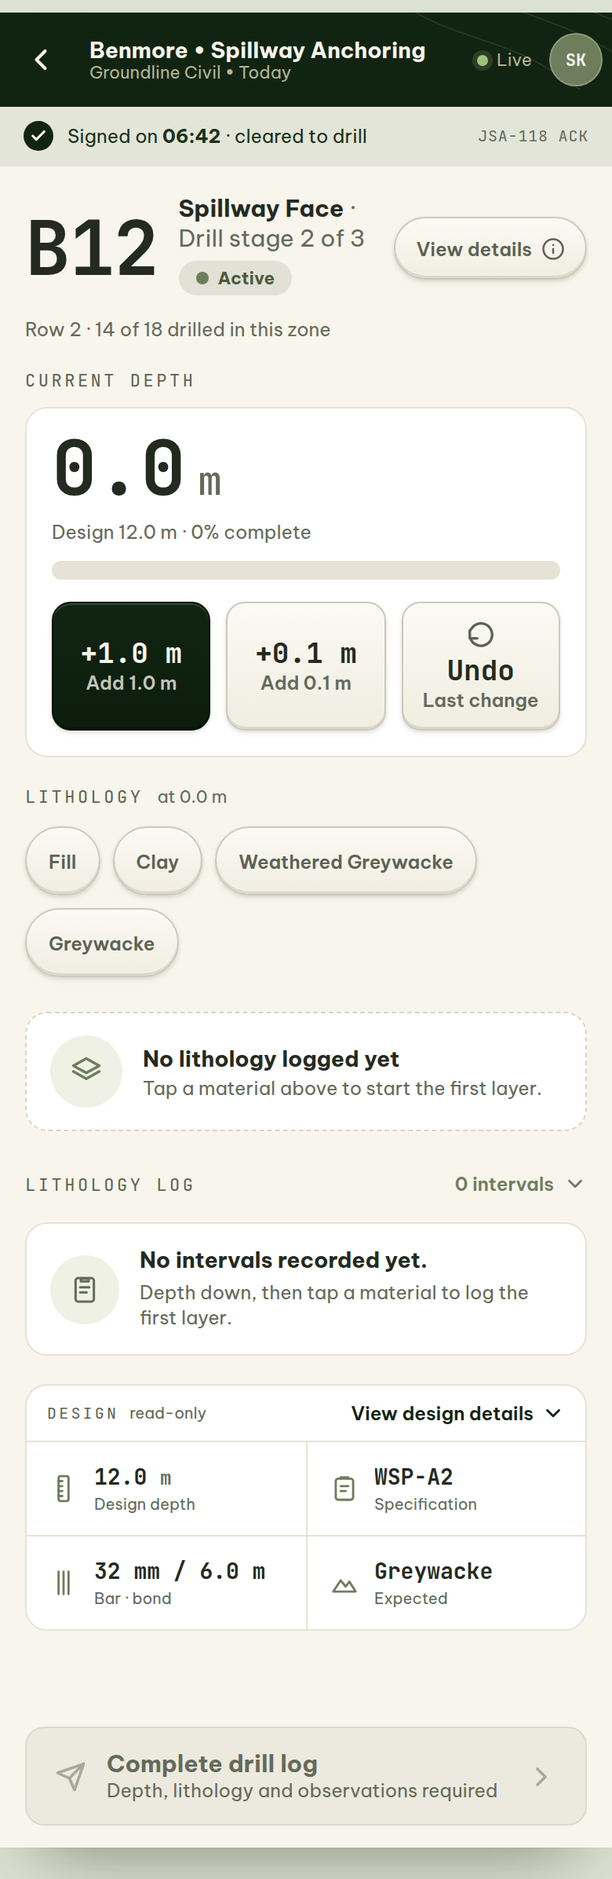
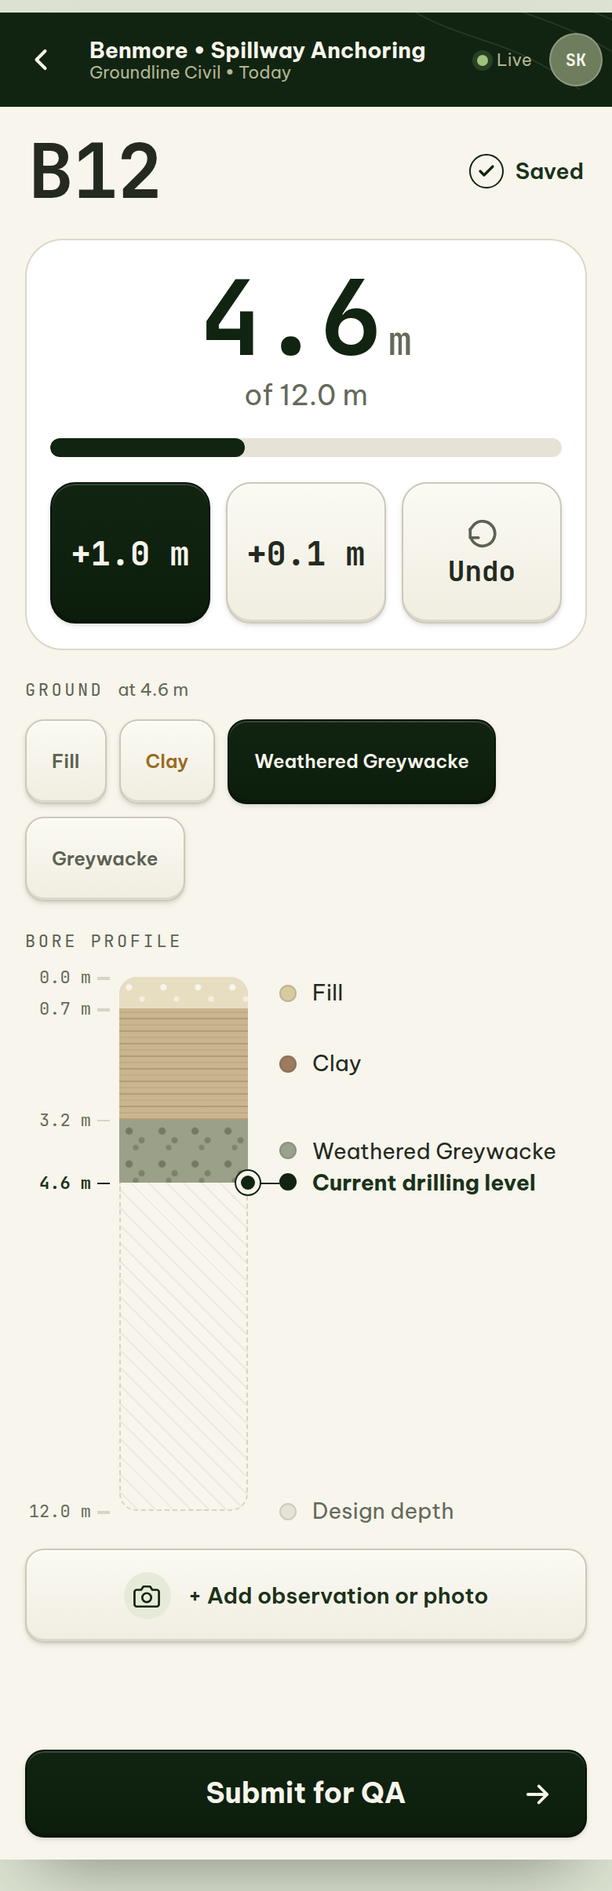
Drill Log: refined field UI to match the reference mockup
Rebuild the operator Drill Log around the approved reference: keep the field
topbar, drop the JSA sign-on strip, unify depth into one hero card, use
rounded lithology chips, and replace the lithology-log list + read-only
design panel with a live graphical Bore Profile. Behaviour, data and
terminology unchanged.

- Minimal identity row (B12 · Saved); JSA sign-on strip removed.
- Depth hero: large value + "of 12.0 m" + progress + the +1.0 / +0.1 / Undo
  pillow controls, all in one card.
- Rounded-rect "Ground at X m" chips; Clay keeps its semantic ochre label;
  selected material is a deep-green fill.
- New live Bore Profile: stratigraphic column (textured layer bands +
  dashed undrilled remainder), depth axis, current-level marker with
  connector, and a legend — all rebuilt from the logged layers, current
  depth and design depth on every change.
- Surfaced "+ Add observation or photo" (opens the record sheet) and a
  single-line "Submit for QA" dock.
- B12 loads mid-drill at 4.6 m with Fill / Clay / Weathered Greywacke
  pre-logged. No behavioural/route/terminology changes; no JS errors.

Claude-Session: https://claude.ai/code/session_01UW4VkpYFpa8gkJ1CXsUgwQ

diff --git a/prototype/screens/drill-log.html b/prototype/screens/drill-log.html
@@ -353,6 +353,86 @@ body{font-family:var(--ui);color:var(--ink);background:var(--stage);min-height:1
 .spec .sg .c .k{color:var(--ink-40)}
 .spec .sg[hidden]{display:none}
 .curlith[hidden]{display:none}
+
+/* ====================================================================
+   PDS-DRL refined build v2 — matches the field reference mockup:
+   minimal identity row, unified depth hero, rounded lithology chips,
+   a live graphical Bore Profile, surfaced observation + submit.
+   ==================================================================== */
+/* identity row */
+.idrow2{display:flex;align-items:center;justify-content:space-between;gap:12px;padding:2px 2px 4px}
+.idrow2 .bigid{font-family:var(--mono);font-weight:700;font-size:var(--fs-4xl);line-height:.9;color:var(--ink);letter-spacing:-.01em}
+.saved{display:inline-flex;align-items:center;gap:7px;font-size:var(--fs-base);font-weight:600;color:var(--forest-2)}
+.saved .sc{width:22px;height:22px;border-radius:50%;border:1.7px solid var(--forest);color:var(--forest);display:grid;place-items:center}
+
+/* unified depth hero card */
+.dcard{border:1px solid var(--structural-border);background:var(--card);border-radius:var(--r-2xl);padding:22px 15px 16px;text-align:center}
+.dcard .dh-val{display:flex;justify-content:center;align-items:baseline;gap:5px}
+.dcard .dh-val .n{font-family:var(--mono);font-weight:700;font-size:66px;line-height:.86;color:var(--forest);letter-spacing:-.02em}
+.dcard .dh-val .u{font-family:var(--mono);font-size:var(--fs-xl);color:var(--ink-40);font-weight:500}
+.dcard .d-of{font-size:var(--fs-lg);color:var(--ink-40);margin-top:6px}
+.dcard .pbar{height:12px;margin-top:16px;background:var(--line);border-radius:var(--r-pill);overflow:hidden}
+.dcard .pbar .pf{height:100%;background:var(--forest);border-radius:var(--r-pill)}
+.dcard .qadj{margin-top:16px}
+.dcard .qadj .qc{min-height:90px;border-radius:16px}
+.dcard .qadj .qc .cap{display:none}
+.dcard .qadj .qc{padding:10px 4px}
+.dcard .qadj .qc .big{font-size:21px;white-space:nowrap}
+.dcard .qadj .qc.undo .big{font-size:var(--fs-lg)}
+.dcard .qadj .qc.undo .ico{color:var(--ink-60)}
+
+/* rounded lithology chips (GROUND AT …) */
+.lqchips{align-items:stretch}
+.lqchips .lq{border-radius:var(--r-control);padding:12px 16px;min-height:54px;justify-content:center;text-align:center;line-height:1.15}
+.lqchips .lq[data-tone=ochre]{color:#9a6a1e}
+
+/* ---- Bore Profile (live) ------------------------------------------- */
+.bore{display:grid;grid-template-columns:54px 94px 1fr;position:relative;padding:6px 0 2px}
+.bore-axis,.bore-col,.bore-legend{height:340px}
+.bore-axis{position:relative}
+.bore-tick{position:absolute;right:12px;transform:translateY(-50%);font-family:var(--mono);font-size:var(--fs-xs);color:var(--ink-40);white-space:nowrap}
+.bore-tick.cur{color:var(--forest-2);font-weight:700}
+.bore-tick::after{content:"";position:absolute;right:-12px;top:50%;width:8px;height:1.5px;background:var(--line-2)}
+.bore-tick.cur::after{background:var(--forest)}
+.bore-col{position:relative}
+.bore-solid{position:absolute;left:6px;right:6px;top:0;border-radius:11px 11px 0 0;overflow:hidden;box-shadow:inset 0 0 0 1px rgba(27,33,23,.1)}
+.bore-band{position:absolute;left:0;right:0}
+.bore-band[data-mat=fill]{background:#e7ddc1;background-image:radial-gradient(circle at 28% 30%,rgba(255,255,255,.7) 0 1.6px,transparent 2.4px),radial-gradient(circle at 66% 64%,rgba(255,255,255,.5) 0 1.4px,transparent 2.2px);background-size:22px 22px}
+.bore-band[data-mat=clay]{background:#c9b58f;background-image:repeating-linear-gradient(0deg,rgba(120,92,60,.2) 0 1px,transparent 1px 8px),repeating-linear-gradient(0deg,rgba(120,92,60,.1) 0 1px,transparent 1px 4px)}
+.bore-band[data-mat=weathered-greywacke]{background:#9ba189;background-image:radial-gradient(circle at 30% 34%,rgba(58,68,48,.42) 0 1.9px,transparent 2.7px),radial-gradient(circle at 68% 62%,rgba(58,68,48,.34) 0 1.6px,transparent 2.4px),radial-gradient(circle at 50% 84%,rgba(58,68,48,.3) 0 1.4px,transparent 2.2px);background-size:21px 21px}
+.bore-band[data-mat=greywacke]{background:#828a78;background-image:radial-gradient(circle at 32% 32%,rgba(45,54,38,.4) 0 1.8px,transparent 2.6px),radial-gradient(circle at 70% 64%,rgba(45,54,38,.32) 0 1.6px,transparent 2.4px);background-size:20px 20px}
+.bore-band[data-mat=sandstone]{background:#cabd97}
+.bore-band[data-mat=argillite]{background:#5d6058}
+.bore-band[data-mat=siltstone]{background:#989a8d}
+.bore-band[data-mat=colluvium]{background:#8a7860}
+.bore-band[data-mat=fault-gouge]{background:#9a8a73}
+.bore-band[data-mat=other]{background:#cbd2c9}
+.bore-undrilled{position:absolute;left:6px;right:6px;border:1.5px dashed var(--line-2);border-top:none;border-radius:0 0 11px 11px;background:repeating-linear-gradient(45deg,transparent 0 7px,rgba(27,33,23,.05) 7px 8px)}
+.bore-marker{position:absolute;right:6px;width:15px;height:15px;border-radius:50%;background:var(--forest);border:3px solid var(--cream);box-shadow:0 0 0 1px var(--forest);transform:translate(50%,-50%);z-index:4}
+.bore-conn{position:absolute;height:1.5px;background:var(--forest);z-index:2}
+.bore-legend{position:relative;padding-left:14px}
+.bore-leg{position:absolute;left:14px;right:0;transform:translateY(-50%);display:flex;align-items:center;gap:10px;font-size:var(--fs-base);color:var(--ink);white-space:nowrap}
+.bore-leg .ld{width:11px;height:11px;border-radius:50%;flex-shrink:0;box-shadow:inset 0 0 0 1px rgba(27,33,23,.12)}
+.bore-leg.cur{color:var(--forest-2);font-weight:700}
+.bore-leg.des{color:var(--ink-40)}
+.bore-leg.des .ld{background:var(--line)}
+
+/* surfaced observation / photo action */
+.addobs{width:100%;display:flex;align-items:center;justify-content:center;gap:11px;padding:14px 16px;margin-top:4px;
+  border:1px solid var(--ctl-border);border-radius:var(--r-control);
+  background:linear-gradient(180deg,var(--ctl-surface),var(--ctl-surface-bottom));
+  box-shadow:inset 0 1px 0 var(--ctl-highlight),inset 0 -1.5px 0 var(--ctl-shade),var(--ctl-shadow);
+  font-family:var(--ui);font-size:var(--fs-base);font-weight:600;color:var(--forest-2);cursor:pointer;
+  transition:box-shadow var(--motion-dur) var(--motion-ease),transform var(--motion-dur) var(--motion-ease)}
+.addobs:active{transform:translateY(1px);box-shadow:var(--ctl-shadow-pressed)}
+.addobs:focus-visible{outline:2.5px solid var(--focus-ring-color);outline-offset:2px}
+.addobs .cam{width:30px;height:30px;border-radius:50%;background:var(--sage-tint);color:var(--forest);display:grid;place-items:center;flex-shrink:0}
+
+/* simplified submit dock */
+.dock .btn.subqa{justify-content:center;gap:0;position:relative}
+.dock .btn.subqa .bt{flex:0 1 auto;align-items:center}
+.dock .btn.subqa .bt1{font-size:var(--fs-lg)}
+.dock .btn.subqa .bchev{position:absolute;right:20px;opacity:1}
 </style>
 <link rel="manifest" href="../manifest.json">
 <meta name="theme-color" content="#112411">
@@ -371,85 +451,58 @@ body{font-family:var(--ui);color:var(--ink);background:var(--stage);min-height:1
     <header></header>
   <script>TE_HEADER.fill('drill-log')</script>
 
-    <!-- gate satisfied -->
-    <div class="signed">
-      <span class="tick"><svg width="11" height="11" viewBox="0 0 24 24" fill="none" stroke="currentColor" stroke-width="3.4" stroke-linecap="round" stroke-linejoin="round"><path d="M20 6L9 17l-5-5"/></svg></span>
-      <span>Signed on <b>06:42</b> &middot; cleared to drill</span><span class="jsa">JSA-118 ACK</span>
-    </div>
-
     <div class="scroll"><div class="pad">
 
       <!-- identity -->
-      <div class="hero">
-        <div class="idrow">
-          <span class="idref">B12</span>
-          <span class="idmeta"><span class="wtype">Spillway Face <span class="stg">· Drill stage 2 of 3</span></span><span class="phase"><span class="pd"></span>Active</span></span>
-          <button class="vad">View details <svg width="15" height="15" viewBox="0 0 24 24" fill="none" stroke="currentColor" stroke-width="2" stroke-linecap="round" stroke-linejoin="round"><circle cx="12" cy="12" r="10"/><line x1="12" y1="16" x2="12" y2="12"/><line x1="12" y1="8" x2="12.01" y2="8"/></svg></button>
-        </div>
-        <span class="heropos">Row 2 · 14 of 18 drilled in this zone</span>
+      <div class="idrow2">
+        <span class="bigid">B12</span>
+        <span class="saved"><span class="sc"><svg width="12" height="12" viewBox="0 0 24 24" fill="none" stroke="currentColor" stroke-width="3.2" stroke-linecap="round" stroke-linejoin="round"><path d="M20 6L9 17l-5-5"/></svg></span>Saved</span>
       </div>
 
-      <!-- current depth (hero) -->
-      <div class="sec">
-        <div class="sl">Current depth</div>
-        <div class="dcard">
-          <div class="dh-val"><span class="n" id="depthVal">0.0</span><span class="u">m</span></div>
-          <div class="des" id="depthSub">Design 12.0 m · 0% complete</div>
-          <div class="pbar dpb"><span class="pf" id="depthBar" style="width:0%"></span></div>
-          <div class="qadj" id="qadj">
-            <button class="qc on" data-step="1" aria-label="Add 1.0 m"><span class="big">+1.0 m</span><span class="cap">Add 1.0 m</span></button>
-            <button class="qc" data-step="0.1" aria-label="Add 0.1 m"><span class="big">+0.1 m</span><span class="cap">Add 0.1 m</span></button>
-            <button class="qc undo" id="undoBtn" aria-label="Undo last change"><span class="ico"><svg width="19" height="19" viewBox="0 0 24 24" fill="none" stroke="currentColor" stroke-width="2.1" stroke-linecap="round" stroke-linejoin="round"><path d="M3 7v6h6"/><path d="M3.51 13a9 9 0 1 0 2.13-9.36L3 7"/></svg></span><span class="big">Undo</span><span class="cap">Last change</span></button>
-          </div>
+      <!-- depth hero -->
+      <div class="dcard">
+        <div class="dh-val"><span class="n" id="depthVal">4.6</span><span class="u">m</span></div>
+        <div class="d-of" id="depthSub">of 12.0 m</div>
+        <div class="pbar"><span class="pf" id="depthBar" style="width:0%"></span></div>
+        <div class="qadj" id="qadj">
+          <button class="qc on" data-step="1" aria-label="Add 1.0 m"><span class="big">+1.0 m</span><span class="cap">Add 1.0 m</span></button>
+          <button class="qc" data-step="0.1" aria-label="Add 0.1 m"><span class="big">+0.1 m</span><span class="cap">Add 0.1 m</span></button>
+          <button class="qc undo" id="undoBtn" aria-label="Undo last change"><span class="ico"><svg width="21" height="21" viewBox="0 0 24 24" fill="none" stroke="currentColor" stroke-width="2.1" stroke-linecap="round" stroke-linejoin="round"><path d="M3 7v6h6"/><path d="M3.51 13a9 9 0 1 0 2.13-9.36L3 7"/></svg></span><span class="big">Undo</span><span class="cap">Last change</span></button>
         </div>
       </div>
 
       <!-- lithology -->
       <div class="sec">
-        <div class="sl">Lithology <span class="sub" id="curAt">at 0.0 m</span></div>
+        <div class="sl">Ground <span class="sub" id="curAt">at 4.6 m</span></div>
         <div class="lqchips" id="lqchips">
           <button class="lq" data-tone="tint" data-lith="Fill">Fill</button>
           <button class="lq" data-tone="ochre" data-lith="Clay">Clay</button>
           <button class="lq" data-tone="sage" data-lith="Weathered Greywacke">Weathered Greywacke</button>
           <button class="lq" data-lith="Greywacke">Greywacke</button>
         </div>
-        <div class="lithstate" id="lithState">
-          <span class="lst-ic" id="lstIc"><svg width="22" height="22" viewBox="0 0 24 24" fill="none" stroke="currentColor" stroke-width="1.9" stroke-linecap="round" stroke-linejoin="round"><path d="M12 3l9 5-9 5-9-5z"/><path d="M3 12l9 5 9-5"/></svg></span>
-          <div class="lst-tx"><b id="lstT">No lithology logged yet</b><span id="lstS">Tap a material above to start the first layer.</span></div>
-        </div>
-        <button class="curlith" id="curlith" hidden><span class="sw lg" data-mat="other"></span><span class="nm">Selected: <span id="curName">None yet</span></span><span class="car"><svg width="20" height="20" viewBox="0 0 24 24" fill="none" stroke="currentColor" stroke-width="2.2" stroke-linecap="round" stroke-linejoin="round"><path d="M6 9l6 6 6-6"/></svg></span></button>
       </div>
 
-      <!-- lithology log -->
+      <!-- bore profile (live) -->
       <div class="sec">
-        <div class="sl">Lithology log <button class="act open" id="viewToggle"><span id="vtLabel">0 intervals</span><svg class="chev" width="15" height="15" viewBox="0 0 24 24" fill="none" stroke="currentColor" stroke-width="2.2" stroke-linecap="round" stroke-linejoin="round"><path d="M18 15l-6-6-6 6"/></svg></button></div>
-        <div class="lithlog" id="lithlog"><div class="llempty"><span class="lle-ic"><svg width="20" height="20" viewBox="0 0 24 24" fill="none" stroke="currentColor" stroke-width="1.8" stroke-linecap="round" stroke-linejoin="round"><rect x="5" y="3" width="14" height="18" rx="2"/><path d="M9 3.5h6v2H9z"/><path d="M8.5 10h7M8.5 14h5"/></svg></span><div class="lle-tx"><b>No intervals recorded yet.</b><span>Depth down, then tap a material to log the first layer.</span></div></div></div>
+        <div class="sl">Bore profile</div>
+        <div class="bore" id="bore">
+          <div class="bore-axis" id="boreAxis"></div>
+          <div class="bore-col" id="boreCol"></div>
+          <div class="bore-legend" id="boreLegend"></div>
+        </div>
       </div>
 
-      <!-- design context (secondary) -->
-      <div class="spec">
-        <div class="sh"><span class="t">Design</span><span class="lock">read-only</span><button class="sh-act" id="designToggle" aria-expanded="false">View design details <svg class="chev" width="15" height="15" viewBox="0 0 24 24" fill="none" stroke="currentColor" stroke-width="2.2" stroke-linecap="round" stroke-linejoin="round"><path d="M6 9l6 6 6-6"/></svg></button></div>
-        <div class="dsum">
-          <div class="dcell"><svg class="dci" width="19" height="19" viewBox="0 0 24 24" fill="none" stroke="currentColor" stroke-width="1.8" stroke-linecap="round" stroke-linejoin="round"><rect x="8" y="2" width="8" height="20" rx="1.5"/><path d="M8 6h3M8 10h3M8 14h3M8 18h3"/></svg><div class="dcx"><span class="dv">12.0 <i>m</i></span><span class="dk">Design depth</span></div></div>
-          <div class="dcell"><svg class="dci" width="19" height="19" viewBox="0 0 24 24" fill="none" stroke="currentColor" stroke-width="1.8" stroke-linecap="round" stroke-linejoin="round"><rect x="5" y="4" width="14" height="17" rx="2"/><path d="M9 4V3h6v1M9 10h6M9 14h4"/></svg><div class="dcx"><span class="dv">WSP-A2</span><span class="dk">Specification</span></div></div>
-          <div class="dcell"><svg class="dci" width="19" height="19" viewBox="0 0 24 24" fill="none" stroke="currentColor" stroke-width="1.8" stroke-linecap="round" stroke-linejoin="round"><path d="M8 3v18M12 3v18M16 3v18"/></svg><div class="dcx"><span class="dv">32 mm / 6.0 m</span><span class="dk">Bar · bond</span></div></div>
-          <div class="dcell"><svg class="dci" width="19" height="19" viewBox="0 0 24 24" fill="none" stroke="currentColor" stroke-width="1.8" stroke-linecap="round" stroke-linejoin="round"><path d="M3 19l6-9 4 5 3-4 5 8z"/></svg><div class="dcx"><span class="dv">Greywacke</span><span class="dk">Expected</span></div></div>
-        </div>
-        <div class="sg" id="sg" hidden>
-          <div class="c"><span class="k">Design depth</span><span class="v">12.0 m</span></div>
-          <div class="c"><span class="k">Specification</span><span class="v">WSP-A2</span></div>
-          <div class="c"><span class="k">Bar · bond</span><span class="v">32 mm · 6.0 m</span></div>
-          <div class="c"><span class="k">Lithology expected</span><span class="v">Greywacke</span></div>
-          <div class="c"><span class="k">Drill angle</span><span class="v">15&deg;</span></div>
-          <div class="c"><span class="k">Grout mix</span><span class="v">GP-2</span></div>
-        </div>
-      </div>
+      <!-- observation / photo -->
+      <button class="addobs" id="addObs">
+        <span class="cam"><svg width="17" height="17" viewBox="0 0 24 24" fill="none" stroke="currentColor" stroke-width="1.9" stroke-linecap="round" stroke-linejoin="round"><path d="M23 19a2 2 0 0 1-2 2H3a2 2 0 0 1-2-2V8a2 2 0 0 1 2-2h4l2-3h6l2 3h4a2 2 0 0 1 2 2z"/><circle cx="12" cy="13" r="4"/></svg></span>
+        + Add observation or photo
+      </button>
 
     </div></div>
 
     <!-- dock -->
     <div class="dock one">
-      <button class="btn prim subqa muted" id="submitQA"><svg class="bico" width="20" height="20" viewBox="0 0 24 24" fill="none" stroke="currentColor" stroke-width="2.1" stroke-linecap="round" stroke-linejoin="round"><path d="M22 2L11 13M22 2l-7 20-4-9-9-4 20-7z"/></svg><span class="bt"><span class="bt1" id="dockT">Complete drill log</span><span class="bt2" id="dockS">Depth, lithology and observations required</span></span><svg class="bchev" width="20" height="20" viewBox="0 0 24 24" fill="none" stroke="currentColor" stroke-width="2.2" stroke-linecap="round" stroke-linejoin="round"><path d="M9 18l6-6-6-6"/></svg></button>
+      <button class="btn prim subqa" id="submitQA"><span class="bt"><span class="bt1" id="dockT">Submit for QA</span></span><svg class="bchev" width="21" height="21" viewBox="0 0 24 24" fill="none" stroke="currentColor" stroke-width="2.2" stroke-linecap="round" stroke-linejoin="round"><path d="M5 12h14M13 6l6 6-6 6"/></svg></button>
     </div>
 
     <!-- record lithology change · bottom sheet -->
@@ -496,60 +549,83 @@ body{font-family:var(--ui);color:var(--ink);background:var(--stage);min-height:1
   function sw(m,sz){return '<span class="sw '+sz+'" data-mat="'+slug(m)+'"></span>';}
   function tick(){return '<svg width="11" height="11" viewBox="0 0 24 24" fill="none" stroke="currentColor" stroke-width="3.4" stroke-linecap="round" stroke-linejoin="round"><path d="M20 6L9 17l-5-5"/></svg>';}
 
-  var layers=[];            /* start of drilling, no lithology logged yet */
-  var pickMat='Greywacke';
+  /* B12 opens mid-drill at 4.6 m with three layers already logged */
+  var layers=[
+    {from:0,   to:0.7,  lith:'Fill'},
+    {from:0.7, to:3.2,  lith:'Clay'},
+    {from:3.2, to:null, lith:'Weathered Greywacke'}
+  ];
+  var pickMat='Weathered Greywacke';
+  var H=340; /* bore-profile column height, px (matches .bore-*{height} in CSS) */
 
-  function setLithState(act){
-    var st=document.getElementById('lithState');
-    if(!st) return;
-    var t=document.getElementById('lstT'), s=document.getElementById('lstS');
-    if(!act){ st.classList.remove('active'); t.textContent='No lithology logged yet'; s.textContent='Tap a material above to start the first layer.'; }
-    else { st.classList.add('active'); t.textContent='Current layer: '+act.lith; s.textContent='Started at '+fmt(act.from)+' m'; }
-  }
   function updateDock(){
     var ready = curDepth()>0 && layers.length>0;
     var b=document.getElementById('submitQA'); if(!b) return;
     b.classList.toggle('muted',!ready);
-    document.getElementById('dockT').textContent = ready ? 'Submit to QA' : 'Complete drill log';
-    document.getElementById('dockS').textContent = ready ? 'Depth, lithology and observations complete' : 'Depth, lithology and observations required';
+    var t=document.getElementById('dockT'); if(t) t.textContent = ready ? 'Submit for QA' : 'Complete drill log';
   }
   function recompute(){
     var a=curDepth();
     var pct=Math.min(100,Math.round(a/DESIGN*100)), over=+(a-DESIGN).toFixed(1);
     var ds=document.getElementById('depthSub');
-    if(ds){ ds.textContent = over>0 ? ('Design '+fmt(DESIGN)+' m · +'+over.toFixed(1)+' m over design')
-                                    : ('Design '+fmt(DESIGN)+' m · '+pct+'% complete'); }
+    if(ds){ ds.textContent = over>0 ? ('of '+fmt(DESIGN)+' m · +'+over.toFixed(1)+' m over')
+                                    : ('of '+fmt(DESIGN)+' m'); }
     var db=document.getElementById('depthBar'); if(db) db.style.width=pct+'%';
-    document.getElementById('curAt').textContent='at '+fmt(a)+' m';
+    var ca=document.getElementById('curAt'); if(ca) ca.textContent='at '+fmt(a)+' m';
     var dc=document.getElementById('dacCur'); if(dc) dc.textContent='Current depth: '+fmt(a)+' m';
-    renderLog();
+    renderProfile();
     updateDock();
   }
 
-  function renderLog(){
-    var d=curDepth(), c=document.getElementById('lithlog'), h='';
-    var chips=document.querySelectorAll('#lqchips .lq');
-    if(!layers.length){
-      c.innerHTML='<div class="llempty"><span class="lle-ic"><svg width="20" height="20" viewBox="0 0 24 24" fill="none" stroke="currentColor" stroke-width="1.8" stroke-linecap="round" stroke-linejoin="round"><rect x="5" y="3" width="14" height="18" rx="2"/><path d="M9 3.5h6v2H9z"/><path d="M8.5 10h7M8.5 14h5"/></svg></span><div class="lle-tx"><b>No intervals recorded yet.</b><span>Depth down, then tap a material to log the first layer.</span></div></div>';
-      setLithState(null);
-      document.getElementById('vtLabel').textContent='0 intervals';
-      [].forEach.call(chips,function(x){x.classList.remove('on');});
-      return;
-    }
+  /* live bore profile \u2014 a stratigraphic column built from the logged layers,
+     the current drilling level and the design depth. Rebuilds on every change. */
+  function renderProfile(){
+    var cur=curDepth();
+    var scaleMax=Math.max(DESIGN,cur)||DESIGN;
+    function y(d){ return Math.max(0,Math.min(H, d/scaleMax*H)); }
+    var col=document.getElementById('boreCol'),
+        axis=document.getElementById('boreAxis'),
+        leg=document.getElementById('boreLegend');
+    if(!col||!axis||!leg) return;
+
+    /* solid drilled column + undrilled remainder + current marker */
+    var solid='<div class="bore-solid" style="height:'+y(cur)+'px">';
     for(var i=0;i<layers.length;i++){
-      var L=layers[i], active=L.to===null, to=active?d:L.to, thk=Math.max(0,to-L.from);
-      h+='<div class="llrow'+(active?' active':'')+'">'
-        +'<span class="llspine" style="background:'+(SPINE[slug(L.lith)]||'#cbd2c9')+'"></span>'
-        +'<div class="llrange2"><span class="r">'+fmt(L.from)+'\u2013'+fmt(to)+' m</span></div>'
-        +'<div class="llmat">'+sw(L.lith,'md')+'<span class="nm">'+L.lith+'</span></div>'
-        +'<span class="llthk">'+fmt(thk)+' m'+(active?' (current)':'')+'</span>'
-        +'</div>';
+      var L=layers[i], active=L.to===null, to=active?cur:L.to;
+      if(to<=L.from) continue;
+      solid+='<div class="bore-band" data-mat="'+slug(L.lith)+'" style="top:'+y(L.from)+'px;height:'+(y(to)-y(L.from))+'px"></div>';
     }
-    c.innerHTML=h;
-    var act=layers[layers.length-1];
-    setLithState(act);
-    document.getElementById('vtLabel').textContent=layers.length+' interval'+(layers.length===1?'':'s');
-    [].forEach.call(chips,function(x){x.classList.toggle('on',x.dataset.lith===act.lith);});
+    solid+='</div>';
+    var und = DESIGN>cur ? '<div class="bore-undrilled" style="top:'+y(cur)+'px;height:'+(y(DESIGN)-y(cur))+'px"></div>' : '';
+    col.innerHTML = solid + und + '<div class="bore-marker" style="top:'+y(cur)+'px"></div>';
+
+    /* depth axis ticks (0, each boundary, current, design) */
+    var ticks=[0];
+    for(var j=0;j<layers.length;j++){ if(layers[j].to!==null) ticks.push(layers[j].to); }
+    ticks.push(cur, DESIGN);
+    ticks=ticks.filter(function(v,ix,arr){return arr.indexOf(v)===ix;}).sort(function(a,b){return a-b;});
+    axis.innerHTML=ticks.map(function(d){
+      var isCur=Math.abs(d-cur)<0.001;
+      return '<span class="bore-tick'+(isCur?' cur':'')+'" style="top:'+y(d)+'px">'+fmt(d)+' m</span>';
+    }).join('');
+
+    /* legend \u2014 material rows at band centres, then current level + design */
+    var lh='';
+    for(var k=0;k<layers.length;k++){
+      var Lk=layers[k], toK=Lk.to===null?cur:Lk.to, mid=(Lk.from+toK)/2;
+      lh+='<div class="bore-leg" style="top:'+y(mid)+'px"><span class="ld" style="background:'+(SPINE[slug(Lk.lith)]||'#cbd2c9')+'"></span>'+Lk.lith+'</div>';
+    }
+    lh+='<div class="bore-leg cur" style="top:'+y(cur)+'px"><span class="ld" style="background:var(--forest)"></span>Current drilling level</div>';
+    lh+='<div class="bore-leg des" style="top:'+y(DESIGN)+'px"><span class="ld"></span>Design depth</div>';
+    leg.innerHTML=lh;
+    var conn=document.createElement('div');
+    conn.className='bore-conn'; conn.style.top=y(cur)+'px'; conn.style.left='-9px'; conn.style.width='23px';
+    leg.appendChild(conn);
+
+    /* reflect the active layer on the chip row */
+    var chips=document.querySelectorAll('#lqchips .lq');
+    var act=layers.length?layers[layers.length-1]:null;
+    [].forEach.call(chips,function(x){ x.classList.toggle('on', !!act && x.dataset.lith===act.lith); });
   }
 
   function step(n){ setDepth(Math.max(0,curDepth()+n)); recompute(); }
@@ -584,21 +660,6 @@ body{font-family:var(--ui);color:var(--ink);background:var(--stage);min-height:1
     addLithology(b.dataset.lith);
   });
 
-  /* log collapse toggle */
-  document.getElementById('viewToggle').addEventListener('click',function(){
-    var open=this.classList.toggle('open');
-    document.getElementById('lithlog').classList.toggle('collapsed',!open);
-  });
-
-  /* design details toggle */
-  var dtog=document.getElementById('designToggle'), sg=document.getElementById('sg');
-  if(dtog&&sg)dtog.addEventListener('click',function(){
-    var open=sg.hasAttribute('hidden');
-    if(open){sg.removeAttribute('hidden');}else{sg.setAttribute('hidden','');}
-    dtog.setAttribute('aria-expanded',open?'true':'false');
-    dtog.classList.toggle('open',open);
-  });
-
   /* state-aware submit */
   var sub=document.getElementById('submitQA');
   if(sub)sub.addEventListener('click',function(){
@@ -616,7 +677,7 @@ body{font-family:var(--ui);color:var(--ink);background:var(--stage);min-height:1
   }
   function openSheet(){ pickMat=layers.length?layers[layers.length-1].lith:MATS[0]; document.getElementById('dacVal').textContent=fmt(curDepth()); renderMats(); sheet.classList.add('open'); }
   function closeSheet(){ sheet.classList.remove('open'); }
-  document.getElementById('curlith').addEventListener('click',openSheet);
+  var _addObs=document.getElementById('addObs'); if(_addObs) _addObs.addEventListener('click',openSheet);
   document.getElementById('sheetX').addEventListener('click',closeSheet);
   document.getElementById('sheetOv').addEventListener('click',closeSheet);
   document.getElementById('useCur').addEventListener('click',function(){ document.getElementById('dacVal').textContent=fmt(curDepth()); });
